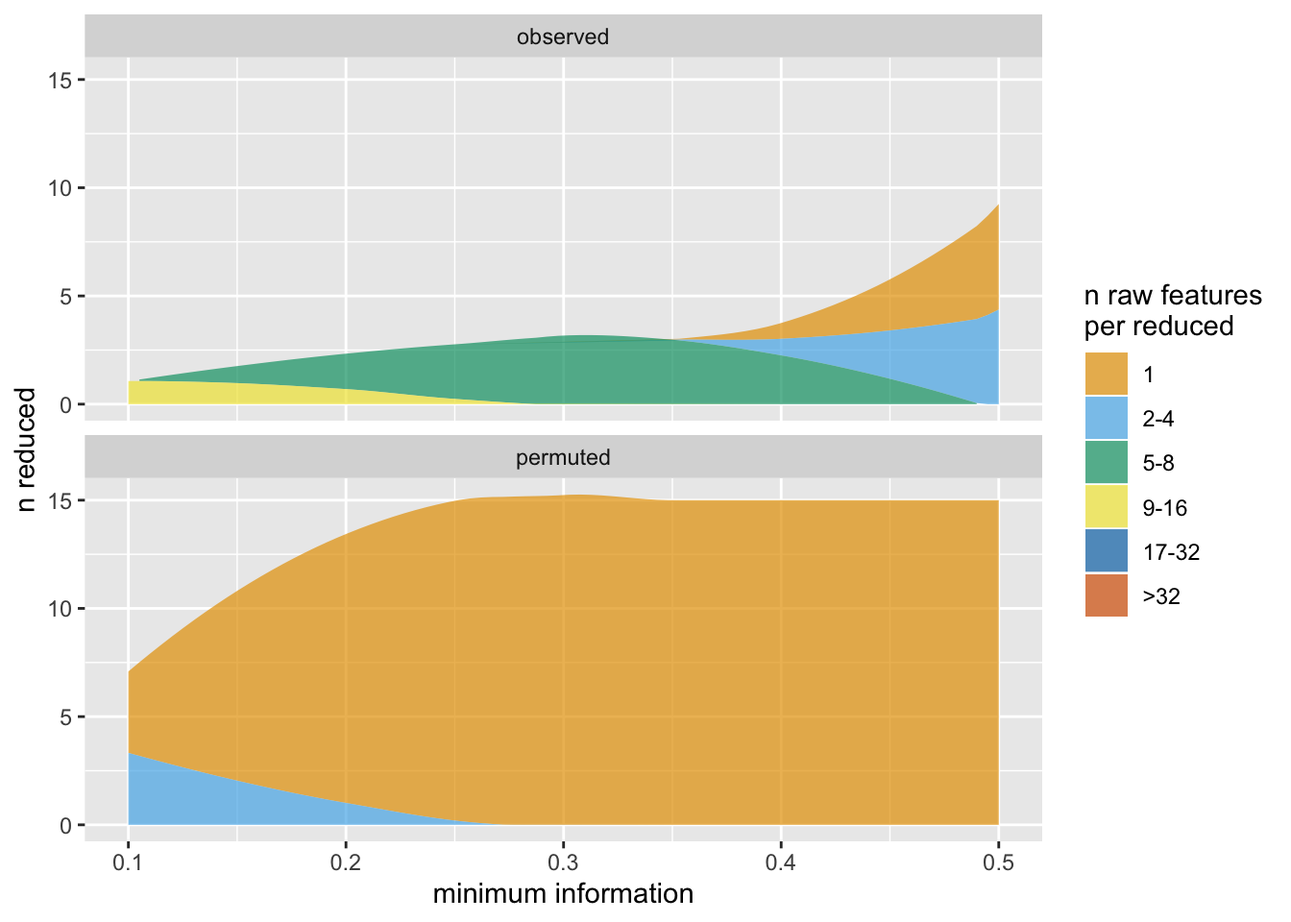
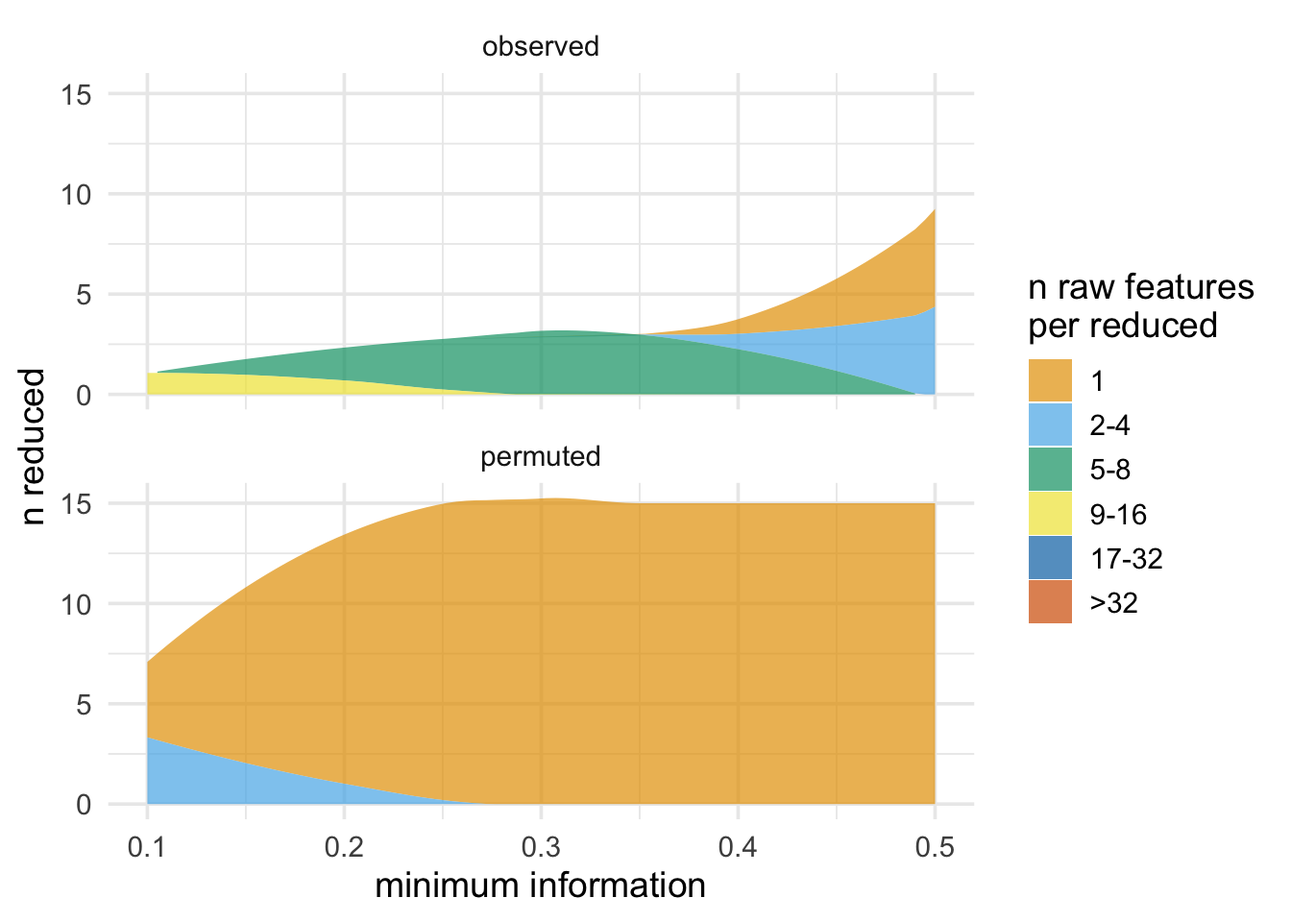
add theme and note to intro vignette

diff --git a/docs/index.html b/docs/index.html
@@ -105,113 +105,114 @@
 <h2 class="hasAnchor">
 <a href="#example" class="anchor"></a>Example</h2>
 <div class="sourceCode" id="cb2"><pre class="sourceCode r"><code class="sourceCode r"><a class="sourceLine" id="cb2-1" data-line-number="1"><span class="kw"><a href="https://www.rdocumentation.org/packages/base/topics/library">library</a></span>(partition2)</a>
-<a class="sourceLine" id="cb2-2" data-line-number="2">df &lt;-<span class="st"> </span><span class="kw"><a href="reference/simulate_block_data.html">simulate_block_data</a></span>(<span class="kw"><a href="https://www.rdocumentation.org/packages/base/topics/c">c</a></span>(<span class="dv">3</span>, <span class="dv">4</span>, <span class="dv">5</span>), <span class="dt">lower_corr =</span> <span class="fl">.4</span>, <span class="dt">upper_corr =</span> <span class="fl">.6</span>, <span class="dt">n =</span> <span class="dv">100</span>)</a>
-<a class="sourceLine" id="cb2-3" data-line-number="3"></a>
-<a class="sourceLine" id="cb2-4" data-line-number="4"><span class="co">#  don't accept reductions where information &lt; .6</span></a>
-<a class="sourceLine" id="cb2-5" data-line-number="5">prt &lt;-<span class="st"> </span><span class="kw"><a href="reference/partition.html">partition</a></span>(df, <span class="dt">threshold =</span> <span class="fl">.6</span>)</a>
-<a class="sourceLine" id="cb2-6" data-line-number="6">prt</a>
-<a class="sourceLine" id="cb2-7" data-line-number="7"><span class="co">#&gt; Partitioner:</span></a>
-<a class="sourceLine" id="cb2-8" data-line-number="8"><span class="co">#&gt;    Director: Minimum Distance (Pearson) </span></a>
-<a class="sourceLine" id="cb2-9" data-line-number="9"><span class="co">#&gt;    Metric: Intraclass Correlation </span></a>
-<a class="sourceLine" id="cb2-10" data-line-number="10"><span class="co">#&gt;    Reducer: Scaled Mean</span></a>
-<a class="sourceLine" id="cb2-11" data-line-number="11"><span class="co">#&gt; </span></a>
-<a class="sourceLine" id="cb2-12" data-line-number="12"><span class="co">#&gt; Reduced Variables:</span></a>
-<a class="sourceLine" id="cb2-13" data-line-number="13"><span class="co">#&gt; 1 reduced variables created from 2 observed variables</span></a>
-<a class="sourceLine" id="cb2-14" data-line-number="14"><span class="co">#&gt; </span></a>
-<a class="sourceLine" id="cb2-15" data-line-number="15"><span class="co">#&gt; Mappings:</span></a>
-<a class="sourceLine" id="cb2-16" data-line-number="16"><span class="co">#&gt; reduced_var_1 = {block3_x1, block3_x4}</span></a>
-<a class="sourceLine" id="cb2-17" data-line-number="17"><span class="co">#&gt; </span></a>
-<a class="sourceLine" id="cb2-18" data-line-number="18"><span class="co">#&gt; Minimum information:</span></a>
-<a class="sourceLine" id="cb2-19" data-line-number="19"><span class="co">#&gt; 0.657</span></a>
-<a class="sourceLine" id="cb2-20" data-line-number="20"></a>
-<a class="sourceLine" id="cb2-21" data-line-number="21"><span class="co"># return reduced data</span></a>
-<a class="sourceLine" id="cb2-22" data-line-number="22"><span class="kw"><a href="reference/partition_scores.html">partition_scores</a></span>(prt)</a>
-<a class="sourceLine" id="cb2-23" data-line-number="23"><span class="co">#&gt; # A tibble: 100 x 11</span></a>
-<a class="sourceLine" id="cb2-24" data-line-number="24"><span class="co">#&gt;    block1_x1 block1_x2 block1_x3 block2_x1 block2_x2 block2_x3 block2_x4</span></a>
-<a class="sourceLine" id="cb2-25" data-line-number="25"><span class="co">#&gt;        &lt;dbl&gt;     &lt;dbl&gt;     &lt;dbl&gt;     &lt;dbl&gt;     &lt;dbl&gt;     &lt;dbl&gt;     &lt;dbl&gt;</span></a>
-<a class="sourceLine" id="cb2-26" data-line-number="26"><span class="co">#&gt;  1    -1.13     0.573     0.0104    -0.212  -1.72      -0.582     0.814 </span></a>
-<a class="sourceLine" id="cb2-27" data-line-number="27"><span class="co">#&gt;  2     0.785   -0.0401   -0.992     -0.653   1.15      -0.723    -0.0110</span></a>
-<a class="sourceLine" id="cb2-28" data-line-number="28"><span class="co">#&gt;  3     0.226   -0.0495    0.689      0.145  -0.0637    -2.65     -0.845 </span></a>
-<a class="sourceLine" id="cb2-29" data-line-number="29"><span class="co">#&gt;  4     0.759   -0.392     0.342     -3.17   -0.976     -2.57     -1.39  </span></a>
-<a class="sourceLine" id="cb2-30" data-line-number="30"><span class="co">#&gt;  5     0.700    0.541    -0.440      0.162   0.237      1.42      1.49  </span></a>
-<a class="sourceLine" id="cb2-31" data-line-number="31"><span class="co">#&gt;  6     0.927   -0.130     2.12      -0.778   0.534     -0.0994   -0.734 </span></a>
-<a class="sourceLine" id="cb2-32" data-line-number="32"><span class="co">#&gt;  7     0.191    0.0293   -0.316      0.976   0.609     -0.213     2.60  </span></a>
-<a class="sourceLine" id="cb2-33" data-line-number="33"><span class="co">#&gt;  8     1.07     0.771     1.71      -0.418   0.00665    1.34      0.932 </span></a>
-<a class="sourceLine" id="cb2-34" data-line-number="34"><span class="co">#&gt;  9     1.32     1.05      0.260     -0.641   0.642      0.317     0.136 </span></a>
-<a class="sourceLine" id="cb2-35" data-line-number="35"><span class="co">#&gt; 10    -0.735   -0.996    -2.19       0.445   3.38      -0.209     1.73  </span></a>
-<a class="sourceLine" id="cb2-36" data-line-number="36"><span class="co">#&gt; # … with 90 more rows, and 4 more variables: block3_x2 &lt;dbl&gt;,</span></a>
-<a class="sourceLine" id="cb2-37" data-line-number="37"><span class="co">#&gt; #   block3_x3 &lt;dbl&gt;, block3_x5 &lt;dbl&gt;, reduced_var_1 &lt;dbl&gt;</span></a>
-<a class="sourceLine" id="cb2-38" data-line-number="38"></a>
-<a class="sourceLine" id="cb2-39" data-line-number="39"><span class="co"># access mapping keys</span></a>
-<a class="sourceLine" id="cb2-40" data-line-number="40"><span class="kw"><a href="reference/mapping_key.html">mapping_key</a></span>(prt)</a>
-<a class="sourceLine" id="cb2-41" data-line-number="41"><span class="co">#&gt; # A tibble: 11 x 4</span></a>
-<a class="sourceLine" id="cb2-42" data-line-number="42"><span class="co">#&gt;    variable      mapping   information indices  </span></a>
-<a class="sourceLine" id="cb2-43" data-line-number="43"><span class="co">#&gt;    &lt;chr&gt;         &lt;list&gt;          &lt;dbl&gt; &lt;list&gt;   </span></a>
-<a class="sourceLine" id="cb2-44" data-line-number="44"><span class="co">#&gt;  1 block1_x1     &lt;chr [1]&gt;       1     &lt;int [1]&gt;</span></a>
-<a class="sourceLine" id="cb2-45" data-line-number="45"><span class="co">#&gt;  2 block1_x2     &lt;chr [1]&gt;       1     &lt;int [1]&gt;</span></a>
-<a class="sourceLine" id="cb2-46" data-line-number="46"><span class="co">#&gt;  3 block1_x3     &lt;chr [1]&gt;       1     &lt;int [1]&gt;</span></a>
-<a class="sourceLine" id="cb2-47" data-line-number="47"><span class="co">#&gt;  4 block2_x1     &lt;chr [1]&gt;       1     &lt;int [1]&gt;</span></a>
-<a class="sourceLine" id="cb2-48" data-line-number="48"><span class="co">#&gt;  5 block2_x2     &lt;chr [1]&gt;       1     &lt;int [1]&gt;</span></a>
-<a class="sourceLine" id="cb2-49" data-line-number="49"><span class="co">#&gt;  6 block2_x3     &lt;chr [1]&gt;       1     &lt;int [1]&gt;</span></a>
-<a class="sourceLine" id="cb2-50" data-line-number="50"><span class="co">#&gt;  7 block2_x4     &lt;chr [1]&gt;       1     &lt;int [1]&gt;</span></a>
-<a class="sourceLine" id="cb2-51" data-line-number="51"><span class="co">#&gt;  8 block3_x2     &lt;chr [1]&gt;       1     &lt;int [1]&gt;</span></a>
-<a class="sourceLine" id="cb2-52" data-line-number="52"><span class="co">#&gt;  9 block3_x3     &lt;chr [1]&gt;       1     &lt;int [1]&gt;</span></a>
-<a class="sourceLine" id="cb2-53" data-line-number="53"><span class="co">#&gt; 10 block3_x5     &lt;chr [1]&gt;       1     &lt;int [1]&gt;</span></a>
-<a class="sourceLine" id="cb2-54" data-line-number="54"><span class="co">#&gt; 11 reduced_var_1 &lt;chr [2]&gt;       0.657 &lt;int [2]&gt;</span></a>
-<a class="sourceLine" id="cb2-55" data-line-number="55"></a>
-<a class="sourceLine" id="cb2-56" data-line-number="56"><span class="kw"><a href="reference/mapping_key.html">unnest_mappings</a></span>(prt)</a>
-<a class="sourceLine" id="cb2-57" data-line-number="57"><span class="co">#&gt; # A tibble: 12 x 4</span></a>
-<a class="sourceLine" id="cb2-58" data-line-number="58"><span class="co">#&gt;    variable      information mapping   indices</span></a>
-<a class="sourceLine" id="cb2-59" data-line-number="59"><span class="co">#&gt;    &lt;chr&gt;               &lt;dbl&gt; &lt;chr&gt;       &lt;int&gt;</span></a>
-<a class="sourceLine" id="cb2-60" data-line-number="60"><span class="co">#&gt;  1 block1_x1           1     block1_x1       1</span></a>
-<a class="sourceLine" id="cb2-61" data-line-number="61"><span class="co">#&gt;  2 block1_x2           1     block1_x2       2</span></a>
-<a class="sourceLine" id="cb2-62" data-line-number="62"><span class="co">#&gt;  3 block1_x3           1     block1_x3       3</span></a>
-<a class="sourceLine" id="cb2-63" data-line-number="63"><span class="co">#&gt;  4 block2_x1           1     block2_x1       4</span></a>
-<a class="sourceLine" id="cb2-64" data-line-number="64"><span class="co">#&gt;  5 block2_x2           1     block2_x2       5</span></a>
-<a class="sourceLine" id="cb2-65" data-line-number="65"><span class="co">#&gt;  6 block2_x3           1     block2_x3       6</span></a>
-<a class="sourceLine" id="cb2-66" data-line-number="66"><span class="co">#&gt;  7 block2_x4           1     block2_x4       7</span></a>
-<a class="sourceLine" id="cb2-67" data-line-number="67"><span class="co">#&gt;  8 block3_x2           1     block3_x2       9</span></a>
-<a class="sourceLine" id="cb2-68" data-line-number="68"><span class="co">#&gt;  9 block3_x3           1     block3_x3      10</span></a>
-<a class="sourceLine" id="cb2-69" data-line-number="69"><span class="co">#&gt; 10 block3_x5           1     block3_x5      12</span></a>
-<a class="sourceLine" id="cb2-70" data-line-number="70"><span class="co">#&gt; 11 reduced_var_1       0.657 block3_x1       8</span></a>
-<a class="sourceLine" id="cb2-71" data-line-number="71"><span class="co">#&gt; 12 reduced_var_1       0.657 block3_x4      11</span></a>
-<a class="sourceLine" id="cb2-72" data-line-number="72"></a>
-<a class="sourceLine" id="cb2-73" data-line-number="73"><span class="co"># use a lower threshold of information loss</span></a>
-<a class="sourceLine" id="cb2-74" data-line-number="74"><span class="kw"><a href="reference/partition.html">partition</a></span>(df, <span class="dt">threshold =</span> <span class="fl">.5</span>, <span class="dt">partitioner =</span> <span class="kw"><a href="reference/part_kmeans.html">part_kmeans</a></span>())</a>
-<a class="sourceLine" id="cb2-75" data-line-number="75"><span class="co">#&gt; Partitioner:</span></a>
-<a class="sourceLine" id="cb2-76" data-line-number="76"><span class="co">#&gt;    Director: K-Means Clusters </span></a>
-<a class="sourceLine" id="cb2-77" data-line-number="77"><span class="co">#&gt;    Metric: Minimum Intraclass Correlation </span></a>
-<a class="sourceLine" id="cb2-78" data-line-number="78"><span class="co">#&gt;    Reducer: Scaled Mean</span></a>
-<a class="sourceLine" id="cb2-79" data-line-number="79"><span class="co">#&gt; </span></a>
-<a class="sourceLine" id="cb2-80" data-line-number="80"><span class="co">#&gt; Reduced Variables:</span></a>
-<a class="sourceLine" id="cb2-81" data-line-number="81"><span class="co">#&gt; 2 reduced variables created from 4 observed variables</span></a>
-<a class="sourceLine" id="cb2-82" data-line-number="82"><span class="co">#&gt; </span></a>
-<a class="sourceLine" id="cb2-83" data-line-number="83"><span class="co">#&gt; Mappings:</span></a>
-<a class="sourceLine" id="cb2-84" data-line-number="84"><span class="co">#&gt; reduced_var_1 = {block2_x1, block2_x3}</span></a>
-<a class="sourceLine" id="cb2-85" data-line-number="85"><span class="co">#&gt; reduced_var_2 = {block2_x2, block2_x4}</span></a>
-<a class="sourceLine" id="cb2-86" data-line-number="86"><span class="co">#&gt; </span></a>
-<a class="sourceLine" id="cb2-87" data-line-number="87"><span class="co">#&gt; Minimum information:</span></a>
-<a class="sourceLine" id="cb2-88" data-line-number="88"><span class="co">#&gt; 0.534</span></a>
-<a class="sourceLine" id="cb2-89" data-line-number="89"></a>
-<a class="sourceLine" id="cb2-90" data-line-number="90"><span class="co"># use a custom partitioner</span></a>
-<a class="sourceLine" id="cb2-91" data-line-number="91">part_icc_rowmeans &lt;-<span class="st"> </span><span class="kw"><a href="reference/replace_partitioner.html">replace_partitioner</a></span>(</a>
-<a class="sourceLine" id="cb2-92" data-line-number="92">  part_icc, </a>
-<a class="sourceLine" id="cb2-93" data-line-number="93">  <span class="dt">reduce =</span> <span class="kw"><a href="reference/as_reducer.html">as_reducer</a></span>(rowMeans)</a>
-<a class="sourceLine" id="cb2-94" data-line-number="94">)</a>
-<a class="sourceLine" id="cb2-95" data-line-number="95"><span class="kw"><a href="reference/partition.html">partition</a></span>(df, <span class="dt">threshold =</span> <span class="fl">.6</span>, <span class="dt">partitioner =</span> part_icc_rowmeans) </a>
-<a class="sourceLine" id="cb2-96" data-line-number="96"><span class="co">#&gt; Partitioner:</span></a>
-<a class="sourceLine" id="cb2-97" data-line-number="97"><span class="co">#&gt;    Director: Minimum Distance (Pearson) </span></a>
-<a class="sourceLine" id="cb2-98" data-line-number="98"><span class="co">#&gt;    Metric: Intraclass Correlation </span></a>
-<a class="sourceLine" id="cb2-99" data-line-number="99"><span class="co">#&gt;    Reducer: &lt;custom reducer&gt;</span></a>
-<a class="sourceLine" id="cb2-100" data-line-number="100"><span class="co">#&gt; </span></a>
-<a class="sourceLine" id="cb2-101" data-line-number="101"><span class="co">#&gt; Reduced Variables:</span></a>
-<a class="sourceLine" id="cb2-102" data-line-number="102"><span class="co">#&gt; 1 reduced variables created from 2 observed variables</span></a>
-<a class="sourceLine" id="cb2-103" data-line-number="103"><span class="co">#&gt; </span></a>
-<a class="sourceLine" id="cb2-104" data-line-number="104"><span class="co">#&gt; Mappings:</span></a>
-<a class="sourceLine" id="cb2-105" data-line-number="105"><span class="co">#&gt; reduced_var_1 = {block3_x1, block3_x4}</span></a>
-<a class="sourceLine" id="cb2-106" data-line-number="106"><span class="co">#&gt; </span></a>
-<a class="sourceLine" id="cb2-107" data-line-number="107"><span class="co">#&gt; Minimum information:</span></a>
-<a class="sourceLine" id="cb2-108" data-line-number="108"><span class="co">#&gt; 0.657</span></a></code></pre></div>
+<a class="sourceLine" id="cb2-2" data-line-number="2"><span class="kw"><a href="https://www.rdocumentation.org/packages/base/topics/Random">set.seed</a></span>(<span class="dv">1234</span>)</a>
+<a class="sourceLine" id="cb2-3" data-line-number="3">df &lt;-<span class="st"> </span><span class="kw"><a href="reference/simulate_block_data.html">simulate_block_data</a></span>(<span class="kw"><a href="https://www.rdocumentation.org/packages/base/topics/c">c</a></span>(<span class="dv">3</span>, <span class="dv">4</span>, <span class="dv">5</span>), <span class="dt">lower_corr =</span> <span class="fl">.4</span>, <span class="dt">upper_corr =</span> <span class="fl">.6</span>, <span class="dt">n =</span> <span class="dv">100</span>)</a>
+<a class="sourceLine" id="cb2-4" data-line-number="4"></a>
+<a class="sourceLine" id="cb2-5" data-line-number="5"><span class="co">#  don't accept reductions where information &lt; .6</span></a>
+<a class="sourceLine" id="cb2-6" data-line-number="6">prt &lt;-<span class="st"> </span><span class="kw"><a href="reference/partition.html">partition</a></span>(df, <span class="dt">threshold =</span> <span class="fl">.6</span>)</a>
+<a class="sourceLine" id="cb2-7" data-line-number="7">prt</a>
+<a class="sourceLine" id="cb2-8" data-line-number="8"><span class="co">#&gt; Partitioner:</span></a>
+<a class="sourceLine" id="cb2-9" data-line-number="9"><span class="co">#&gt;    Director: Minimum Distance (Pearson) </span></a>
+<a class="sourceLine" id="cb2-10" data-line-number="10"><span class="co">#&gt;    Metric: Intraclass Correlation </span></a>
+<a class="sourceLine" id="cb2-11" data-line-number="11"><span class="co">#&gt;    Reducer: Scaled Mean</span></a>
+<a class="sourceLine" id="cb2-12" data-line-number="12"><span class="co">#&gt; </span></a>
+<a class="sourceLine" id="cb2-13" data-line-number="13"><span class="co">#&gt; Reduced Variables:</span></a>
+<a class="sourceLine" id="cb2-14" data-line-number="14"><span class="co">#&gt; 1 reduced variables created from 2 observed variables</span></a>
+<a class="sourceLine" id="cb2-15" data-line-number="15"><span class="co">#&gt; </span></a>
+<a class="sourceLine" id="cb2-16" data-line-number="16"><span class="co">#&gt; Mappings:</span></a>
+<a class="sourceLine" id="cb2-17" data-line-number="17"><span class="co">#&gt; reduced_var_1 = {block2_x3, block2_x4}</span></a>
+<a class="sourceLine" id="cb2-18" data-line-number="18"><span class="co">#&gt; </span></a>
+<a class="sourceLine" id="cb2-19" data-line-number="19"><span class="co">#&gt; Minimum information:</span></a>
+<a class="sourceLine" id="cb2-20" data-line-number="20"><span class="co">#&gt; 0.602</span></a>
+<a class="sourceLine" id="cb2-21" data-line-number="21"></a>
+<a class="sourceLine" id="cb2-22" data-line-number="22"><span class="co"># return reduced data</span></a>
+<a class="sourceLine" id="cb2-23" data-line-number="23"><span class="kw"><a href="reference/partition_scores.html">partition_scores</a></span>(prt)</a>
+<a class="sourceLine" id="cb2-24" data-line-number="24"><span class="co">#&gt; # A tibble: 100 x 11</span></a>
+<a class="sourceLine" id="cb2-25" data-line-number="25"><span class="co">#&gt;    block1_x1 block1_x2 block1_x3 block2_x1 block2_x2 block3_x1 block3_x2</span></a>
+<a class="sourceLine" id="cb2-26" data-line-number="26"><span class="co">#&gt;        &lt;dbl&gt;     &lt;dbl&gt;     &lt;dbl&gt;     &lt;dbl&gt;     &lt;dbl&gt;     &lt;dbl&gt;     &lt;dbl&gt;</span></a>
+<a class="sourceLine" id="cb2-27" data-line-number="27"><span class="co">#&gt;  1   -1.00     -0.344      1.35     -0.526    -1.25      1.13     0.357 </span></a>
+<a class="sourceLine" id="cb2-28" data-line-number="28"><span class="co">#&gt;  2    0.518    -0.434     -0.361    -1.48     -1.53     -0.317    0.290 </span></a>
+<a class="sourceLine" id="cb2-29" data-line-number="29"><span class="co">#&gt;  3   -1.77     -0.913     -0.722     0.122     0.224    -0.529    0.114 </span></a>
+<a class="sourceLine" id="cb2-30" data-line-number="30"><span class="co">#&gt;  4   -1.49     -0.998      0.189     0.149    -0.994    -0.433    0.0120</span></a>
+<a class="sourceLine" id="cb2-31" data-line-number="31"><span class="co">#&gt;  5    0.616     0.0211     0.895     1.09     -1.25      0.440   -0.550 </span></a>
+<a class="sourceLine" id="cb2-32" data-line-number="32"><span class="co">#&gt;  6    0.0765    0.522      1.20     -0.152    -0.419    -0.912   -0.362 </span></a>
+<a class="sourceLine" id="cb2-33" data-line-number="33"><span class="co">#&gt;  7    1.74      0.0993    -0.654    -1.26     -0.502    -0.792   -1.03  </span></a>
+<a class="sourceLine" id="cb2-34" data-line-number="34"><span class="co">#&gt;  8    1.05      2.19       0.913     0.254     0.328    -1.07    -0.976 </span></a>
+<a class="sourceLine" id="cb2-35" data-line-number="35"><span class="co">#&gt;  9   -1.07     -0.292     -0.763     0.437     0.739     0.899   -0.342 </span></a>
+<a class="sourceLine" id="cb2-36" data-line-number="36"><span class="co">#&gt; 10   -1.02     -0.959     -1.33     -1.57     -1.11      0.618    0.153 </span></a>
+<a class="sourceLine" id="cb2-37" data-line-number="37"><span class="co">#&gt; # … with 90 more rows, and 4 more variables: block3_x3 &lt;dbl&gt;,</span></a>
+<a class="sourceLine" id="cb2-38" data-line-number="38"><span class="co">#&gt; #   block3_x4 &lt;dbl&gt;, block3_x5 &lt;dbl&gt;, reduced_var_1 &lt;dbl&gt;</span></a>
+<a class="sourceLine" id="cb2-39" data-line-number="39"></a>
+<a class="sourceLine" id="cb2-40" data-line-number="40"><span class="co"># access mapping keys</span></a>
+<a class="sourceLine" id="cb2-41" data-line-number="41"><span class="kw"><a href="reference/mapping_key.html">mapping_key</a></span>(prt)</a>
+<a class="sourceLine" id="cb2-42" data-line-number="42"><span class="co">#&gt; # A tibble: 11 x 4</span></a>
+<a class="sourceLine" id="cb2-43" data-line-number="43"><span class="co">#&gt;    variable      mapping   information indices  </span></a>
+<a class="sourceLine" id="cb2-44" data-line-number="44"><span class="co">#&gt;    &lt;chr&gt;         &lt;list&gt;          &lt;dbl&gt; &lt;list&gt;   </span></a>
+<a class="sourceLine" id="cb2-45" data-line-number="45"><span class="co">#&gt;  1 block1_x1     &lt;chr [1]&gt;       1     &lt;int [1]&gt;</span></a>
+<a class="sourceLine" id="cb2-46" data-line-number="46"><span class="co">#&gt;  2 block1_x2     &lt;chr [1]&gt;       1     &lt;int [1]&gt;</span></a>
+<a class="sourceLine" id="cb2-47" data-line-number="47"><span class="co">#&gt;  3 block1_x3     &lt;chr [1]&gt;       1     &lt;int [1]&gt;</span></a>
+<a class="sourceLine" id="cb2-48" data-line-number="48"><span class="co">#&gt;  4 block2_x1     &lt;chr [1]&gt;       1     &lt;int [1]&gt;</span></a>
+<a class="sourceLine" id="cb2-49" data-line-number="49"><span class="co">#&gt;  5 block2_x2     &lt;chr [1]&gt;       1     &lt;int [1]&gt;</span></a>
+<a class="sourceLine" id="cb2-50" data-line-number="50"><span class="co">#&gt;  6 block3_x1     &lt;chr [1]&gt;       1     &lt;int [1]&gt;</span></a>
+<a class="sourceLine" id="cb2-51" data-line-number="51"><span class="co">#&gt;  7 block3_x2     &lt;chr [1]&gt;       1     &lt;int [1]&gt;</span></a>
+<a class="sourceLine" id="cb2-52" data-line-number="52"><span class="co">#&gt;  8 block3_x3     &lt;chr [1]&gt;       1     &lt;int [1]&gt;</span></a>
+<a class="sourceLine" id="cb2-53" data-line-number="53"><span class="co">#&gt;  9 block3_x4     &lt;chr [1]&gt;       1     &lt;int [1]&gt;</span></a>
+<a class="sourceLine" id="cb2-54" data-line-number="54"><span class="co">#&gt; 10 block3_x5     &lt;chr [1]&gt;       1     &lt;int [1]&gt;</span></a>
+<a class="sourceLine" id="cb2-55" data-line-number="55"><span class="co">#&gt; 11 reduced_var_1 &lt;chr [2]&gt;       0.602 &lt;int [2]&gt;</span></a>
+<a class="sourceLine" id="cb2-56" data-line-number="56"></a>
+<a class="sourceLine" id="cb2-57" data-line-number="57"><span class="kw"><a href="reference/mapping_key.html">unnest_mappings</a></span>(prt)</a>
+<a class="sourceLine" id="cb2-58" data-line-number="58"><span class="co">#&gt; # A tibble: 12 x 4</span></a>
+<a class="sourceLine" id="cb2-59" data-line-number="59"><span class="co">#&gt;    variable      information mapping   indices</span></a>
+<a class="sourceLine" id="cb2-60" data-line-number="60"><span class="co">#&gt;    &lt;chr&gt;               &lt;dbl&gt; &lt;chr&gt;       &lt;int&gt;</span></a>
+<a class="sourceLine" id="cb2-61" data-line-number="61"><span class="co">#&gt;  1 block1_x1           1     block1_x1       1</span></a>
+<a class="sourceLine" id="cb2-62" data-line-number="62"><span class="co">#&gt;  2 block1_x2           1     block1_x2       2</span></a>
+<a class="sourceLine" id="cb2-63" data-line-number="63"><span class="co">#&gt;  3 block1_x3           1     block1_x3       3</span></a>
+<a class="sourceLine" id="cb2-64" data-line-number="64"><span class="co">#&gt;  4 block2_x1           1     block2_x1       4</span></a>
+<a class="sourceLine" id="cb2-65" data-line-number="65"><span class="co">#&gt;  5 block2_x2           1     block2_x2       5</span></a>
+<a class="sourceLine" id="cb2-66" data-line-number="66"><span class="co">#&gt;  6 block3_x1           1     block3_x1       8</span></a>
+<a class="sourceLine" id="cb2-67" data-line-number="67"><span class="co">#&gt;  7 block3_x2           1     block3_x2       9</span></a>
+<a class="sourceLine" id="cb2-68" data-line-number="68"><span class="co">#&gt;  8 block3_x3           1     block3_x3      10</span></a>
+<a class="sourceLine" id="cb2-69" data-line-number="69"><span class="co">#&gt;  9 block3_x4           1     block3_x4      11</span></a>
+<a class="sourceLine" id="cb2-70" data-line-number="70"><span class="co">#&gt; 10 block3_x5           1     block3_x5      12</span></a>
+<a class="sourceLine" id="cb2-71" data-line-number="71"><span class="co">#&gt; 11 reduced_var_1       0.602 block2_x3       6</span></a>
+<a class="sourceLine" id="cb2-72" data-line-number="72"><span class="co">#&gt; 12 reduced_var_1       0.602 block2_x4       7</span></a>
+<a class="sourceLine" id="cb2-73" data-line-number="73"></a>
+<a class="sourceLine" id="cb2-74" data-line-number="74"><span class="co"># use a lower threshold of information loss</span></a>
+<a class="sourceLine" id="cb2-75" data-line-number="75"><span class="kw"><a href="reference/partition.html">partition</a></span>(df, <span class="dt">threshold =</span> <span class="fl">.5</span>, <span class="dt">partitioner =</span> <span class="kw"><a href="reference/part_kmeans.html">part_kmeans</a></span>())</a>
+<a class="sourceLine" id="cb2-76" data-line-number="76"><span class="co">#&gt; Partitioner:</span></a>
+<a class="sourceLine" id="cb2-77" data-line-number="77"><span class="co">#&gt;    Director: K-Means Clusters </span></a>
+<a class="sourceLine" id="cb2-78" data-line-number="78"><span class="co">#&gt;    Metric: Minimum Intraclass Correlation </span></a>
+<a class="sourceLine" id="cb2-79" data-line-number="79"><span class="co">#&gt;    Reducer: Scaled Mean</span></a>
+<a class="sourceLine" id="cb2-80" data-line-number="80"><span class="co">#&gt; </span></a>
+<a class="sourceLine" id="cb2-81" data-line-number="81"><span class="co">#&gt; Reduced Variables:</span></a>
+<a class="sourceLine" id="cb2-82" data-line-number="82"><span class="co">#&gt; 2 reduced variables created from 7 observed variables</span></a>
+<a class="sourceLine" id="cb2-83" data-line-number="83"><span class="co">#&gt; </span></a>
+<a class="sourceLine" id="cb2-84" data-line-number="84"><span class="co">#&gt; Mappings:</span></a>
+<a class="sourceLine" id="cb2-85" data-line-number="85"><span class="co">#&gt; reduced_var_1 = {block3_x1, block3_x2, block3_x5}</span></a>
+<a class="sourceLine" id="cb2-86" data-line-number="86"><span class="co">#&gt; reduced_var_2 = {block2_x1, block2_x2, block2_x3, block2_x4}</span></a>
+<a class="sourceLine" id="cb2-87" data-line-number="87"><span class="co">#&gt; </span></a>
+<a class="sourceLine" id="cb2-88" data-line-number="88"><span class="co">#&gt; Minimum information:</span></a>
+<a class="sourceLine" id="cb2-89" data-line-number="89"><span class="co">#&gt; 0.508</span></a>
+<a class="sourceLine" id="cb2-90" data-line-number="90"></a>
+<a class="sourceLine" id="cb2-91" data-line-number="91"><span class="co"># use a custom partitioner</span></a>
+<a class="sourceLine" id="cb2-92" data-line-number="92">part_icc_rowmeans &lt;-<span class="st"> </span><span class="kw"><a href="reference/replace_partitioner.html">replace_partitioner</a></span>(</a>
+<a class="sourceLine" id="cb2-93" data-line-number="93">  part_icc, </a>
+<a class="sourceLine" id="cb2-94" data-line-number="94">  <span class="dt">reduce =</span> <span class="kw"><a href="reference/as_reducer.html">as_reducer</a></span>(rowMeans)</a>
+<a class="sourceLine" id="cb2-95" data-line-number="95">)</a>
+<a class="sourceLine" id="cb2-96" data-line-number="96"><span class="kw"><a href="reference/partition.html">partition</a></span>(df, <span class="dt">threshold =</span> <span class="fl">.6</span>, <span class="dt">partitioner =</span> part_icc_rowmeans) </a>
+<a class="sourceLine" id="cb2-97" data-line-number="97"><span class="co">#&gt; Partitioner:</span></a>
+<a class="sourceLine" id="cb2-98" data-line-number="98"><span class="co">#&gt;    Director: Minimum Distance (Pearson) </span></a>
+<a class="sourceLine" id="cb2-99" data-line-number="99"><span class="co">#&gt;    Metric: Intraclass Correlation </span></a>
+<a class="sourceLine" id="cb2-100" data-line-number="100"><span class="co">#&gt;    Reducer: &lt;custom reducer&gt;</span></a>
+<a class="sourceLine" id="cb2-101" data-line-number="101"><span class="co">#&gt; </span></a>
+<a class="sourceLine" id="cb2-102" data-line-number="102"><span class="co">#&gt; Reduced Variables:</span></a>
+<a class="sourceLine" id="cb2-103" data-line-number="103"><span class="co">#&gt; 1 reduced variables created from 2 observed variables</span></a>
+<a class="sourceLine" id="cb2-104" data-line-number="104"><span class="co">#&gt; </span></a>
+<a class="sourceLine" id="cb2-105" data-line-number="105"><span class="co">#&gt; Mappings:</span></a>
+<a class="sourceLine" id="cb2-106" data-line-number="106"><span class="co">#&gt; reduced_var_1 = {block2_x3, block2_x4}</span></a>
+<a class="sourceLine" id="cb2-107" data-line-number="107"><span class="co">#&gt; </span></a>
+<a class="sourceLine" id="cb2-108" data-line-number="108"><span class="co">#&gt; Minimum information:</span></a>
+<a class="sourceLine" id="cb2-109" data-line-number="109"><span class="co">#&gt; 0.602</span></a></code></pre></div>
 <p>partition also supports a number of ways to visualize partitions and permutation tests; these functions all start with <code>plot_*()</code>. These functions all return ggplots and can thus be extended using ggplot2.</p>
 <div class="sourceCode" id="cb3"><pre class="sourceCode r"><code class="sourceCode r"><a class="sourceLine" id="cb3-1" data-line-number="1"><span class="kw"><a href="reference/plot_partitions.html">plot_stacked_area_clusters</a></span>(df) <span class="op">+</span></a>
 <a class="sourceLine" id="cb3-2" data-line-number="2"><span class="st">  </span>ggplot2<span class="op">::</span><span class="kw"><a href="https://www.rdocumentation.org/packages/ggplot2/topics/ggtheme">theme_minimal</a></span>(<span class="dv">14</span>)</a></code></pre></div>

diff --git a/docs/articles/introduction-to-partition.html b/docs/articles/introduction-to-partition.html
@@ -165,7 +165,8 @@
 <a class="sourceLine" id="cb3-16" data-line-number="16"><span class="co">#&gt; #   reduced_var_3 &lt;dbl&gt;, reduced_var_4 &lt;dbl&gt;</span></a></code></pre></div>
 <p>Each variable in the original data set maps to one reduced variable; in this partition, there are four reduced variables consisting of two to three variables each, as well as five of the original variables that did not get reduced because too much information would have been lost.</p>
 <div class="sourceCode" id="cb4"><pre class="sourceCode r"><code class="sourceCode r"><a class="sourceLine" id="cb4-1" data-line-number="1"><span class="kw"><a href="../reference/plot_partitions.html">plot_ncluster</a></span>(prt) <span class="op">+</span></a>
-<a class="sourceLine" id="cb4-2" data-line-number="2"><span class="st">  </span><span class="kw"><a href="https://www.rdocumentation.org/packages/ggplot2/topics/ggtheme">theme_minimal</a></span>(<span class="dv">14</span>)</a></code></pre></div>
+<a class="sourceLine" id="cb4-2" data-line-number="2"><span class="st">  </span><span class="co"># plot_*() functions return ggplots, so they can be extended using ggplot2</span></a>
+<a class="sourceLine" id="cb4-3" data-line-number="3"><span class="st">  </span><span class="kw"><a href="https://www.rdocumentation.org/packages/ggplot2/topics/ggtheme">theme_minimal</a></span>(<span class="dv">14</span>)</a></code></pre></div>
 <p><img src="introduction-to-partition_files/figure-html/unnamed-chunk-4-1.png" width="672" style="display: block; margin: auto;"></p>
 <p>Each reduced variable explains at least 50% of the information of the original variables from which it was created. The distribution of information has a lower limit of our threshold, .5.</p>
 <div class="sourceCode" id="cb5"><pre class="sourceCode r"><code class="sourceCode r"><a class="sourceLine" id="cb5-1" data-line-number="1"><span class="kw"><a href="../reference/plot_partitions.html">plot_information</a></span>(prt, <span class="dt">geom =</span> geom_histogram) <span class="op">+</span></a>
@@ -301,7 +302,8 @@
 <a class="sourceLine" id="cb10-13" data-line-number="13"><span class="kw"><a href="https://www.rdocumentation.org/packages/base/topics/identical">identical</a></span>(ind_df, <span class="kw"><a href="../reference/partition_scores.html">partition_scores</a></span>(ind_part))</a>
 <a class="sourceLine" id="cb10-14" data-line-number="14"><span class="co">#&gt; [1] TRUE</span></a></code></pre></div>
 <p>Because we can expect this, comparing partitions we fit on our data to partitions fit on independent data helps assess the reasonableness of our clusters. One easy way to compare how much data is reduced compared to if the data were completely independent is to use <code><a href="../reference/plot_partitions.html">plot_stacked_area_clusters()</a></code>, which creates partitions for a series of thresholds using both the observed data and a permuted (independent) version of the data. In general, there are many more raw features per reduced variable for the real data than the independent data; it takes a very low threshold for the permuted data to start forming clusters.</p>
-<div class="sourceCode" id="cb11"><pre class="sourceCode r"><code class="sourceCode r"><a class="sourceLine" id="cb11-1" data-line-number="1"><span class="kw"><a href="../reference/plot_partitions.html">plot_stacked_area_clusters</a></span>(df)</a></code></pre></div>
+<div class="sourceCode" id="cb11"><pre class="sourceCode r"><code class="sourceCode r"><a class="sourceLine" id="cb11-1" data-line-number="1"><span class="kw"><a href="../reference/plot_partitions.html">plot_stacked_area_clusters</a></span>(df) <span class="op">+</span></a>
+<a class="sourceLine" id="cb11-2" data-line-number="2"><span class="st">  </span><span class="kw"><a href="https://www.rdocumentation.org/packages/ggplot2/topics/ggtheme">theme_minimal</a></span>(<span class="dv">14</span>)</a></code></pre></div>
 <p><img src="introduction-to-partition_files/figure-html/unnamed-chunk-11-1.png" width="672" style="display: block; margin: auto;"></p>
 <p>partition also has a set of tools for more extensive permutation tests. <code><a href="../reference/map_partition.html">map_partition()</a></code> will fit partitions for a range of thresholds for the observed data; <code><a href="../reference/test_permutation.html">test_permutation()</a></code> will do the same but also fit partitions for a set of permuted data sets (100 by default). <code><a href="../reference/plot_permutation.html">plot_permutation()</a></code> visualizes the results, comparing information, number of clusters, or number of raw features that were reduced.</p>
 <div class="sourceCode" id="cb12"><pre class="sourceCode r"><code class="sourceCode r"><a class="sourceLine" id="cb12-1" data-line-number="1">perms &lt;-<span class="st"> </span><span class="kw"><a href="../reference/test_permutation.html">test_permutation</a></span>(df, <span class="dt">nperm =</span> <span class="dv">10</span>)</a>

diff --git a/docs/reference/as_reducer.html b/docs/reference/as_reducer.html
@@ -177,7 +177,7 @@ that return a <code>data.frame</code> and <code>FALSE</code> for reducers that r
 <span class='no'>reduce_row_means</span></div><div class='output co'>#&gt; function(.partition_step, ...) {
 #&gt;     mapping_f(.partition_step, .f, ...)
 #&gt;   }
-#&gt; &lt;environment: 0x7f9930e23b48&gt;</div><div class='input'>
+#&gt; &lt;environment: 0x7fd365ec1bb8&gt;</div><div class='input'>
 </div></pre>
   </div>
   <div class="col-md-3 hidden-xs hidden-sm" id="sidebar">

diff --git a/docs/reference/as_director.html b/docs/reference/as_director.html
@@ -194,7 +194,7 @@ directors to be used in <code>partitioner</code>s. <code>partitioner</code>s can
 #&gt; 
 #&gt;     .partition_step
 #&gt;   }
-#&gt; &lt;environment: 0x7f9930049a10&gt;</div><div class='input'>
+#&gt; &lt;environment: 0x7fd36c21f518&gt;</div><div class='input'>
 </div></pre>
   </div>
   <div class="col-md-3 hidden-xs hidden-sm" id="sidebar">

diff --git a/docs/reference/as_measure.html b/docs/reference/as_measure.html
@@ -183,7 +183,7 @@ helper function to create new metrics to be used in <code>partitioner</code>s.
 #&gt; 
 #&gt;     .partition_step
 #&gt;   }
-#&gt; &lt;environment: 0x7f992b8d6b00&gt;</div><div class='input'>
+#&gt; &lt;environment: 0x7fd367a2e158&gt;</div><div class='input'>
 </div></pre>
   </div>
   <div class="col-md-3 hidden-xs hidden-sm" id="sidebar">
